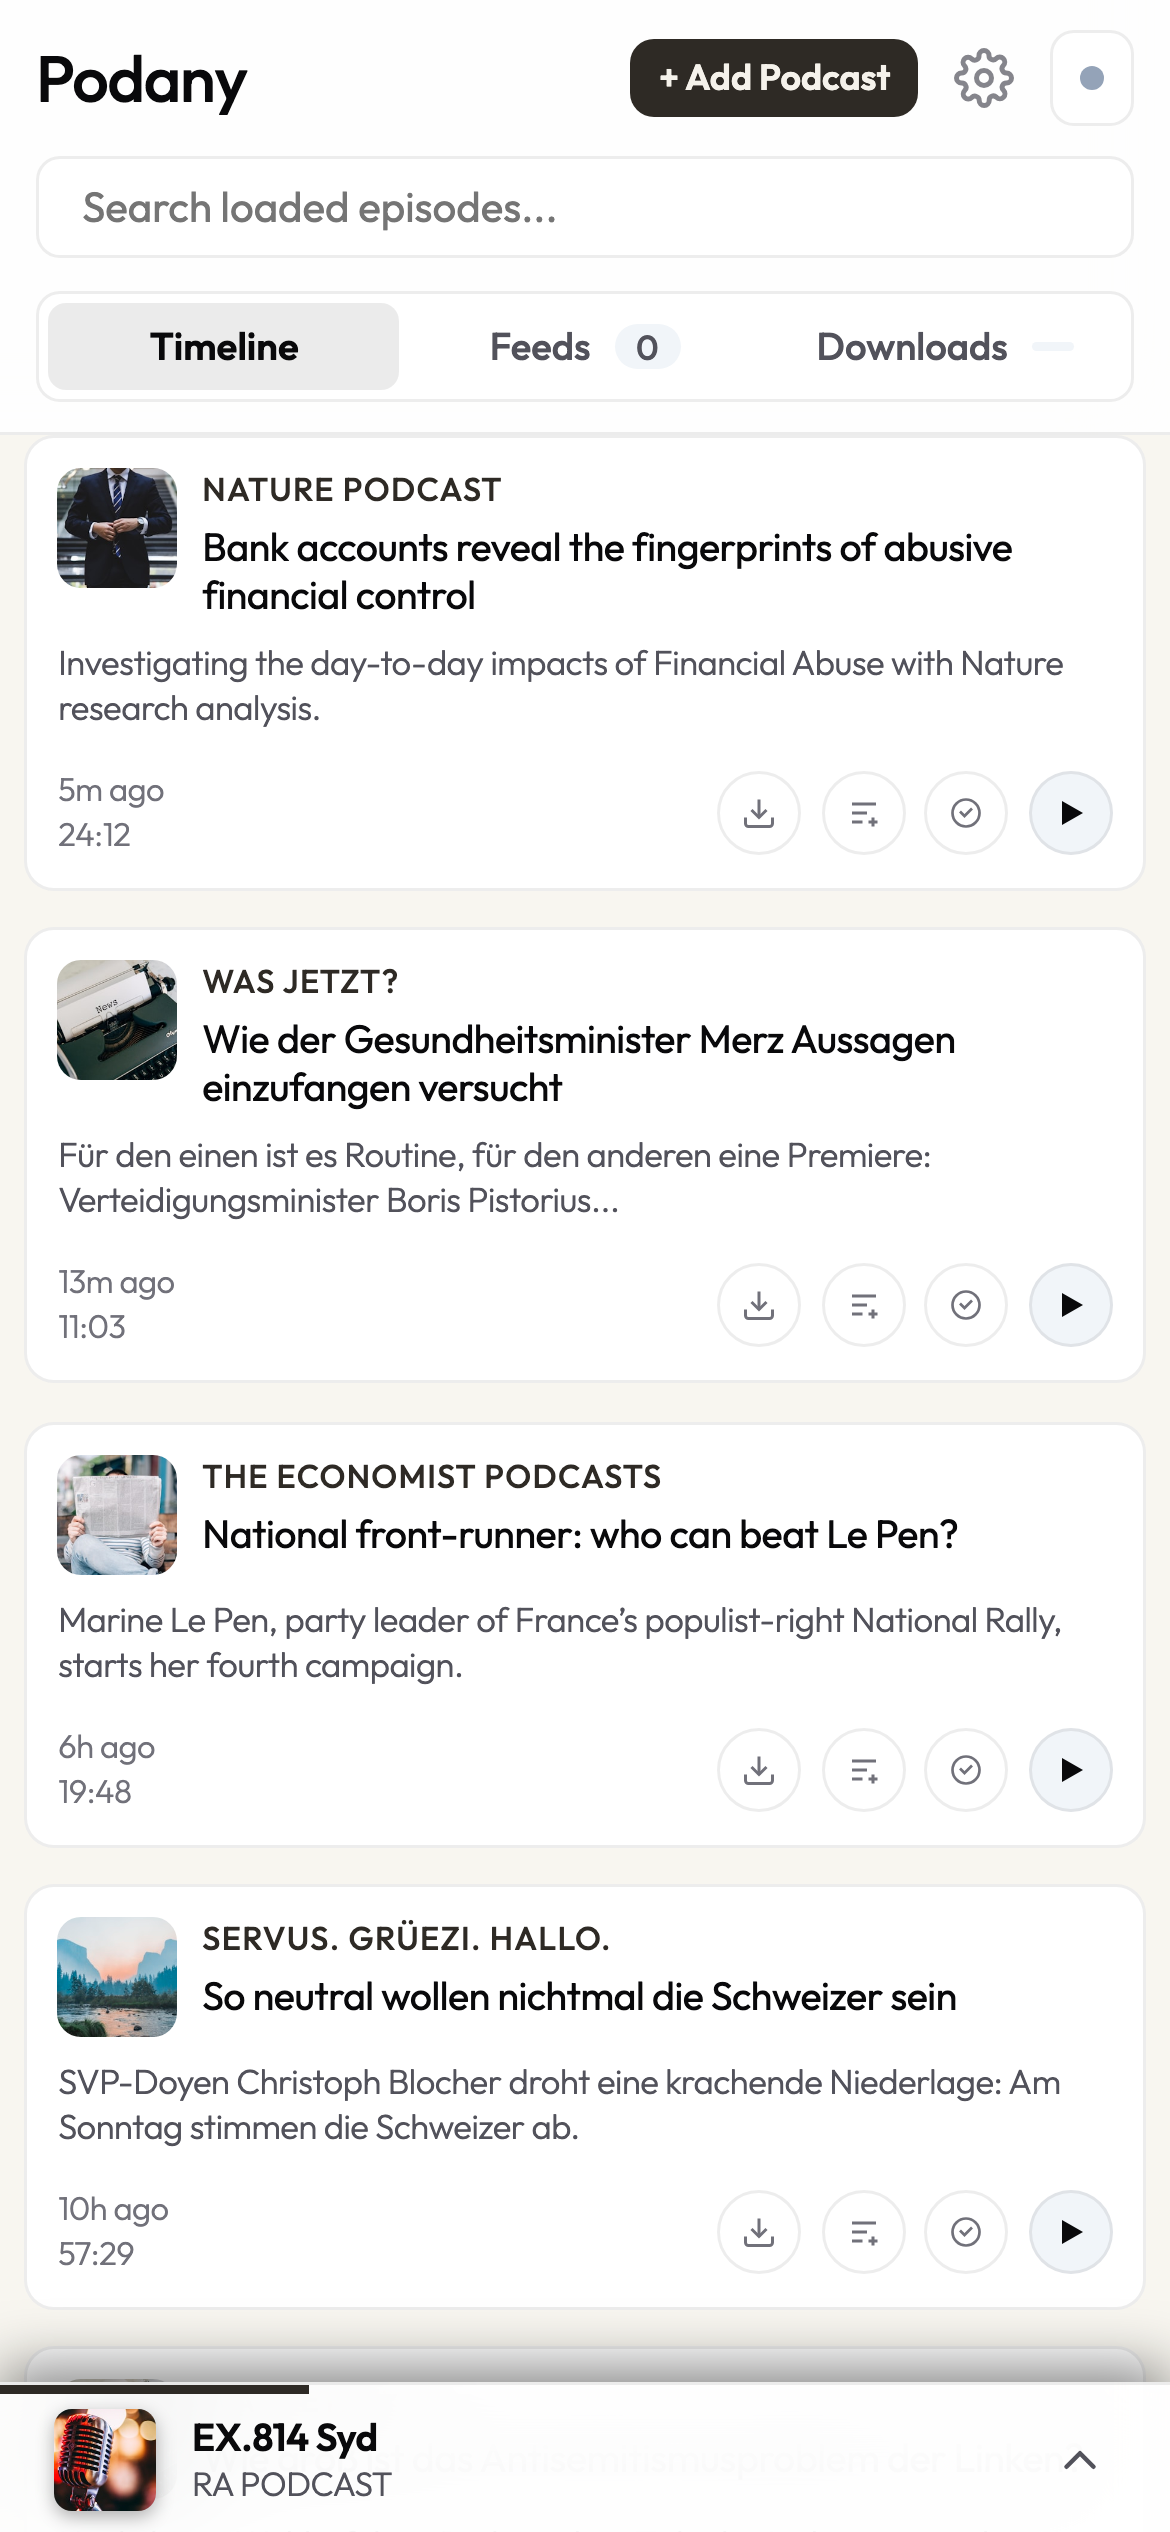
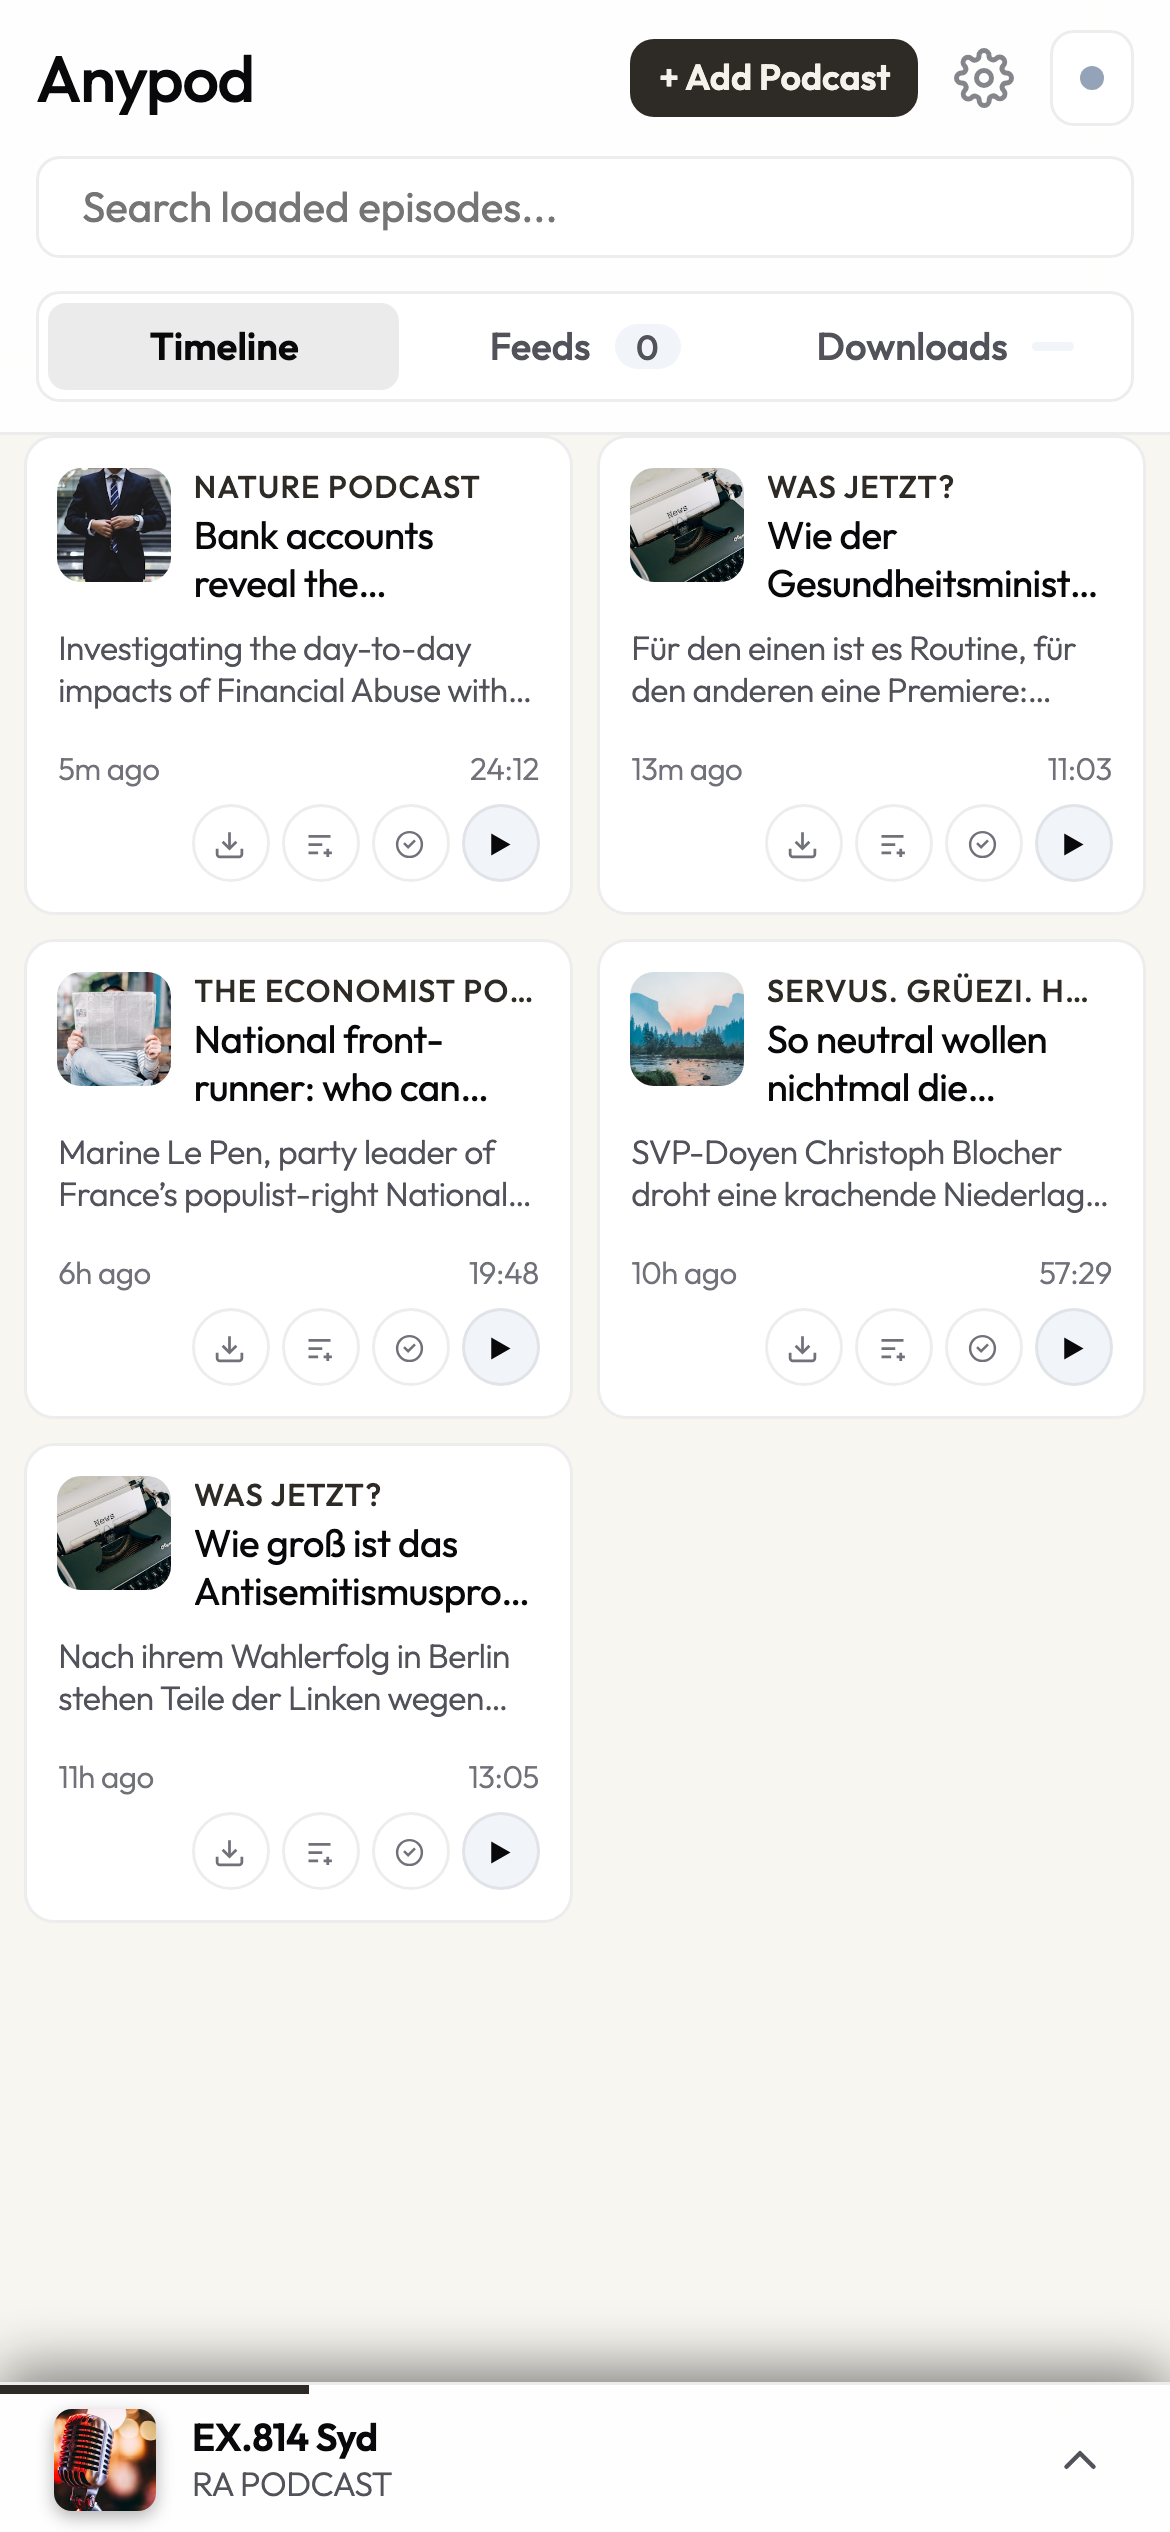
docs: retake high-res screenshots (3 per row on mobile) and link anypod.org

diff --git a/scripts/capture_screenshots.js b/scripts/capture_screenshots.js
@@ -670,6 +670,30 @@ async function main() {
   fs.writeFileSync(mobileMiniLightPath, Buffer.from(mobileMiniLightShot.data, 'base64'));
   console.log(`Saved: ${mobileMiniLightPath} (${(fs.statSync(mobileMiniLightPath).size / 1024).toFixed(1)} KB)`);
 
+  // 8. Mobile Subscribed Feeds Light Mode
+  console.log('Capturing Mobile Subscribed Feeds (Light)...');
+  await send('Runtime.evaluate', {
+    expression: `
+      document.documentElement.setAttribute('data-theme', 'light');
+      document.body.style.backgroundColor = '#f8f6f0';
+      document.querySelectorAll('.tab-panel').forEach(p => p.classList.remove('active'));
+      document.getElementById('panel-feeds')?.classList.add('active');
+      document.querySelectorAll('.nav-tab').forEach(t => t.classList.remove('active'));
+      document.getElementById('tab-feeds')?.classList.add('active');
+      if (typeof window.__renderMockFeeds === 'function') window.__renderMockFeeds();
+      window.scrollTo(0, 0);
+    `
+  });
+  await new Promise(r => setTimeout(r, 800));
+  const mobileFeedsLightShot = await send('Page.captureScreenshot', {
+    format: 'png',
+    captureBeyondViewport: false,
+    clip: { x: 0, y: 0, width: 390, height: 844, scale: 1 }
+  });
+  const mobileFeedsLightPath = path.join(outDir, 'mobile-feeds-light.png');
+  fs.writeFileSync(mobileFeedsLightPath, Buffer.from(mobileFeedsLightShot.data, 'base64'));
+  console.log(`Saved: ${mobileFeedsLightPath} (${(fs.statSync(mobileFeedsLightPath).size / 1024).toFixed(1)} KB)`);
+
   ws.close();
   cleanup();
   console.log('\nAll screenshots captured and saved successfully!');

diff --git a/README.md b/README.md
@@ -1,8 +1,15 @@
 # Anypod
 
-Private podcast RSS feed aggregator and web player hosted on Cloudflare Pages with Cloudflare D1 storage.
+[![Live Web App](https://img.shields.io/badge/Live_App-anypod.org-f97316?style=for-the-badge&logo=cloudflare)](https://anypod.org)
+[![License: MIT](https://img.shields.io/badge/License-MIT-yellow.svg?style=for-the-badge)](LICENSE)
+
+> 🌐 **Live Web App & Demo:** [**https://anypod.org**](https://anypod.org)
+
+Private podcast RSS feed aggregator and continuous audio player with offline PWA playback, community transcript sync, and real-time speech/music spectrum analysis hosted on Cloudflare Pages with Cloudflare D1 storage.
 
 ## Screenshots
+
+### Desktop Views
 
 <table>
   <tr>
@@ -17,27 +24,35 @@ Private podcast RSS feed aggregator and web player hosted on Cloudflare Pages wi
     <td><img src="docs/screenshots/preview-dark.png" alt="Desktop Dark Mode" /></td>
     <td><img src="docs/screenshots/preview-light.png" alt="Desktop Light Mode" /></td>
   </tr>
+</table>
+
+### Mobile Views (3 per row)
+
+<table>
   <tr>
-    <td align="center"><b>Mobile Active Playback</b></td>
-    <td align="center"><b>Mobile Active Playback (Light)</b></td>
+    <th align="center" width="33.3%">Full Player</th>
+    <th align="center" width="33.3%">Mini-Player & Timeline</th>
+    <th align="center" width="33.3%">Subscribed Feeds</th>
   </tr>
   <tr>
-    <td align="center"><img src="docs/screenshots/mobile-player.png" width="320" alt="Mobile Active Playback Dark" /></td>
-    <td align="center"><img src="docs/screenshots/mobile-player-light.png" width="320" alt="Mobile Active Playback Light" /></td>
+    <td align="center"><img src="docs/screenshots/mobile-player.png" alt="Mobile Active Playback (Dark)" /></td>
+    <td align="center"><img src="docs/screenshots/mobile-mini.png" alt="Mobile Mini-Player (Dark)" /></td>
+    <td align="center"><img src="docs/screenshots/mobile-feeds.png" alt="Mobile Subscribed Feeds (Dark)" /></td>
   </tr>
   <tr>
-    <td align="center"><b>Mobile Mini-Player</b></td>
-    <td align="center"><b>Mobile Mini-Player (Light)</b></td>
+    <td align="center"><b>Active Playback (Dark)</b></td>
+    <td align="center"><b>Mini-Player (Dark)</b></td>
+    <td align="center"><b>Subscribed Feeds (Dark)</b></td>
   </tr>
   <tr>
-    <td align="center"><img src="docs/screenshots/mobile-mini.png" width="320" alt="Mobile Mini Player Dark" /></td>
-    <td align="center"><img src="docs/screenshots/mobile-mini-light.png" width="320" alt="Mobile Mini Player Light" /></td>
+    <td align="center"><img src="docs/screenshots/mobile-player-light.png" alt="Mobile Active Playback (Light)" /></td>
+    <td align="center"><img src="docs/screenshots/mobile-mini-light.png" alt="Mobile Mini-Player (Light)" /></td>
+    <td align="center"><img src="docs/screenshots/mobile-feeds-light.png" alt="Mobile Subscribed Feeds (Light)" /></td>
   </tr>
   <tr>
-    <td align="center" colspan="2"><b>Mobile Subscribed Feeds</b></td>
-  </tr>
-  <tr>
-    <td align="center" colspan="2"><img src="docs/screenshots/mobile-feeds.png" width="320" alt="Mobile Subscribed Feeds" /></td>
+    <td align="center"><b>Active Playback (Light)</b></td>
+    <td align="center"><b>Mini-Player (Light)</b></td>
+    <td align="center"><b>Subscribed Feeds (Light)</b></td>
   </tr>
 </table>
 
